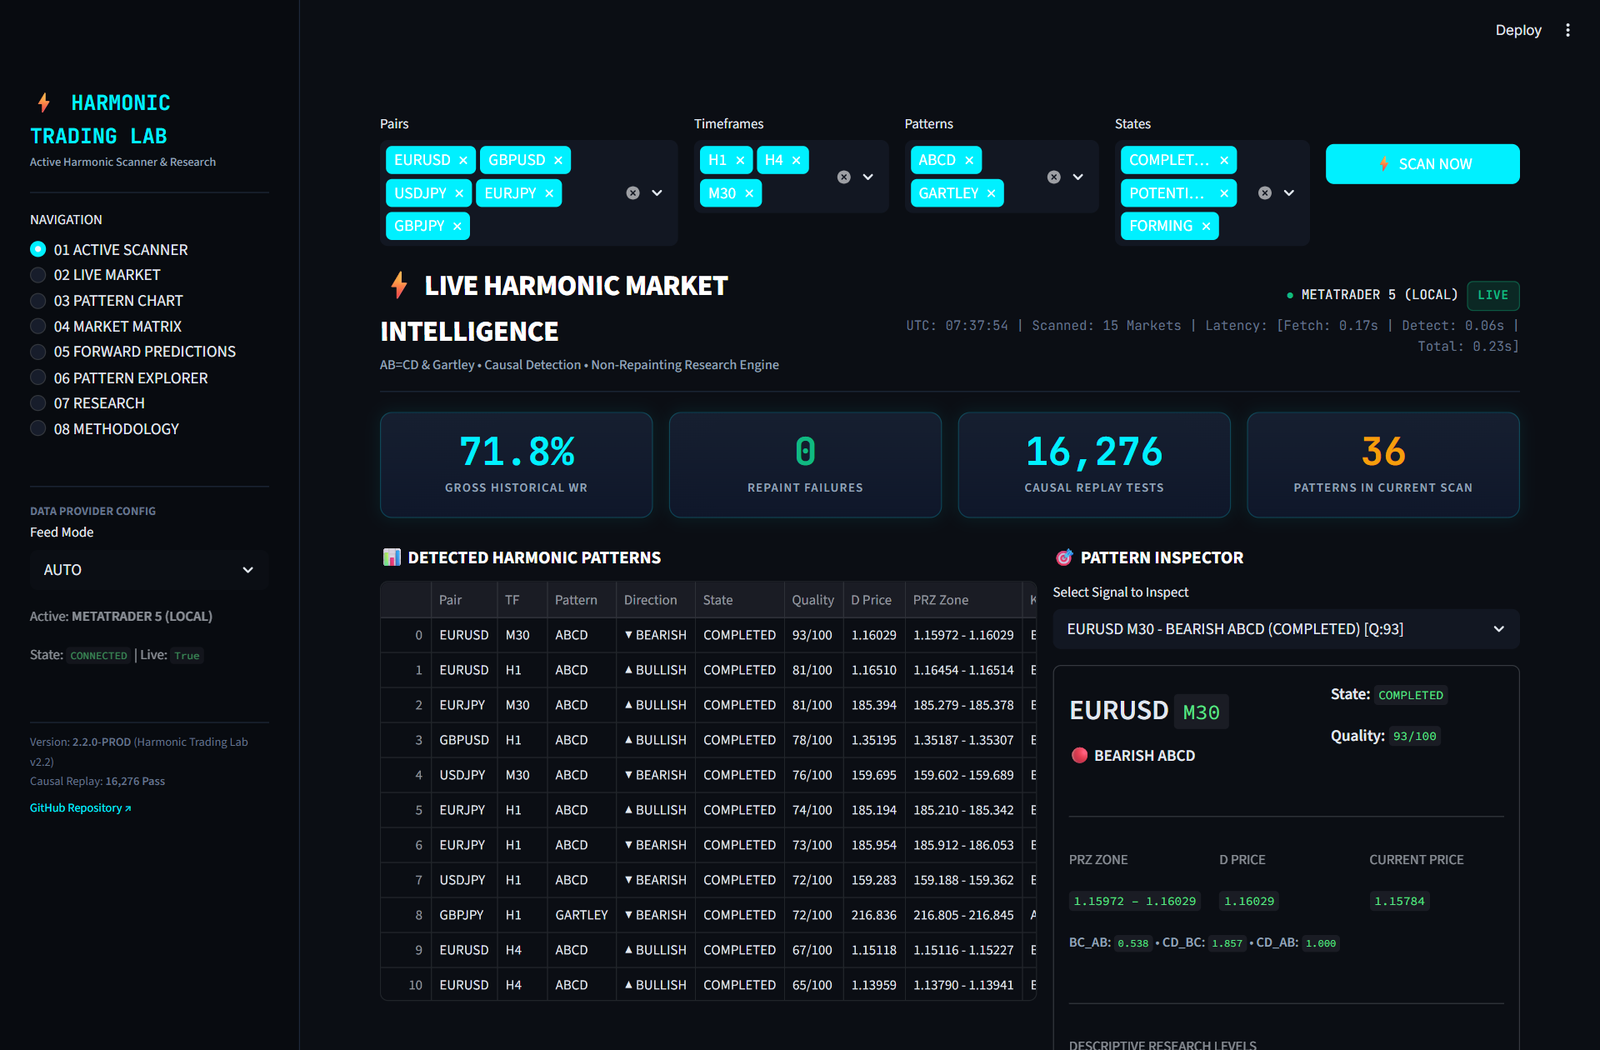
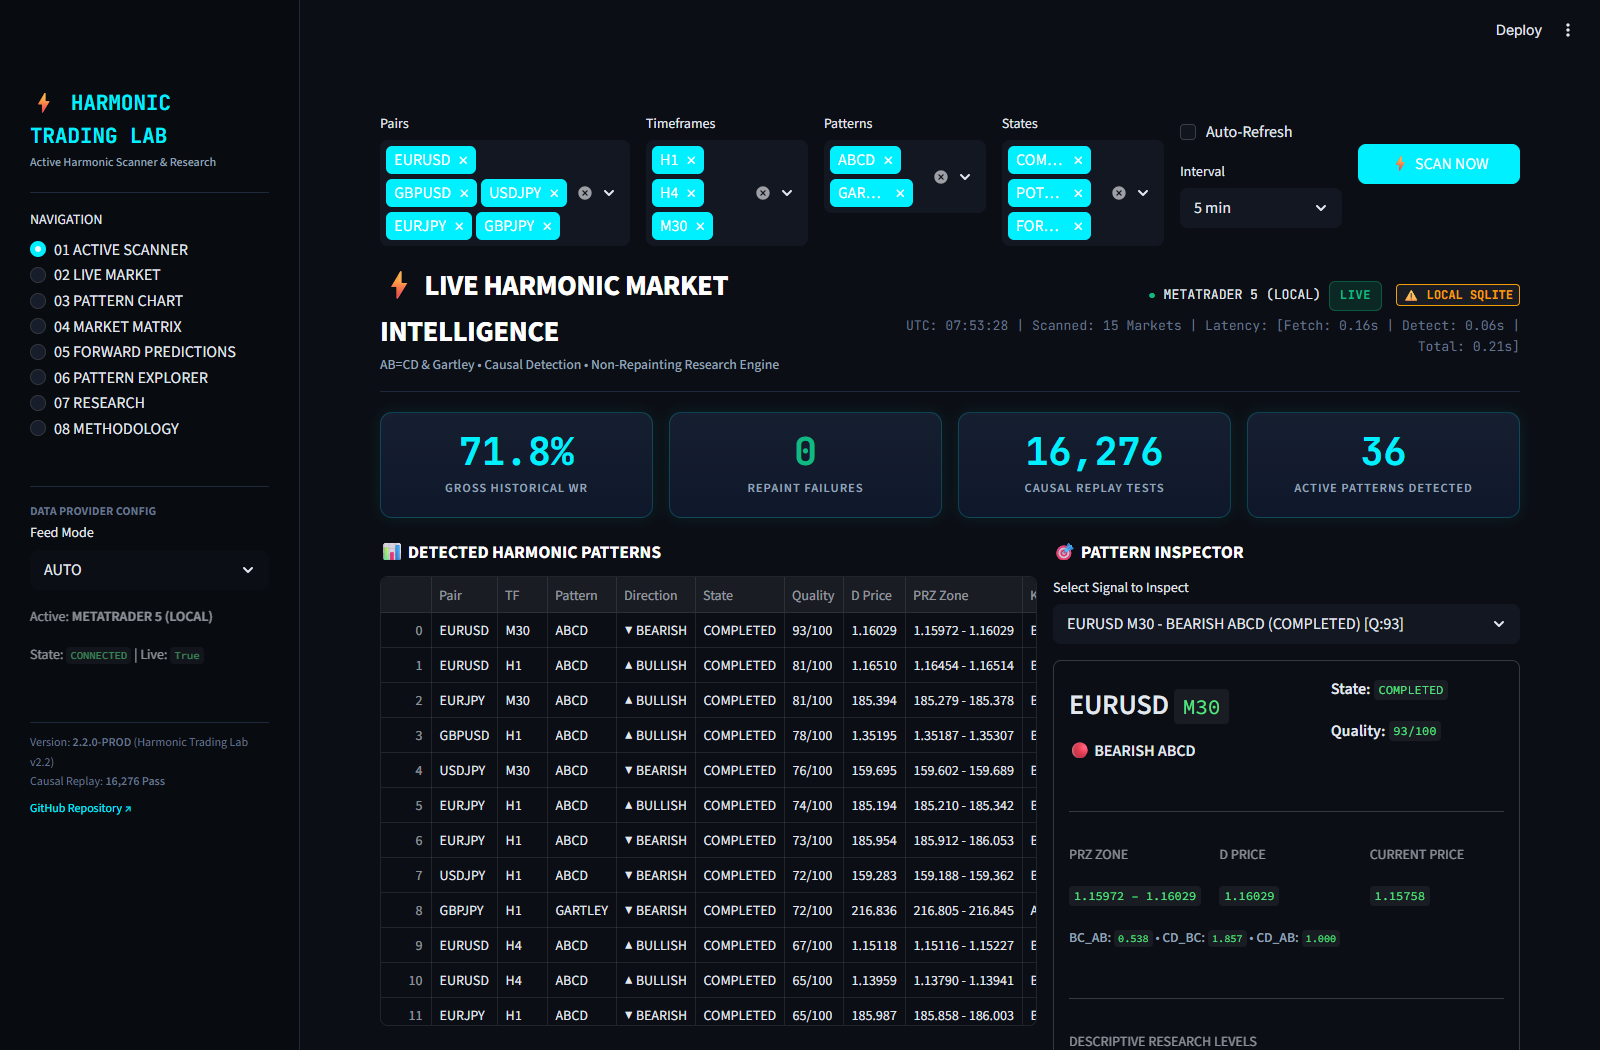
fix: resolve Streamlit module caching and update clean showcase screenshots

diff --git a/views/page_live_scanner.py b/views/page_live_scanner.py
@@ -1,14 +1,23 @@
 import streamlit as st
 import time
+import importlib
 from datetime import datetime, timezone
+import ui.components
+importlib.reload(ui.components)
 from ui.components import render_command_header, render_hero_metrics
 from ui.scanner_table import render_scanner_table
 from ui.pattern_card import render_pattern_card
+import ui.charts
+importlib.reload(ui.charts)
 from ui.charts import HarmonicChartBuilder
 
 def render_page():
     scanner = st.session_state.scanner
-    db = st.session_state.db
+    from storage.database import HarmonicDatabase
+    db = st.session_state.get('db')
+    if db is None or not hasattr(db, 'save_pattern'):
+        db = HarmonicDatabase()
+        st.session_state.db = db
     prov_status = st.session_state.data_provider.get_status()
     
     # Auto-Refresh & Top Controls
@@ -36,7 +45,8 @@ def render_page():
             
             # Persist patterns & forward predictions
             for p in res['patterns']:
-                db.save_pattern(p)
+                if hasattr(db, 'save_pattern'):
+                    db.save_pattern(p)
                 if p.get('state') == 'COMPLETED':
                     rec = {
                         'pattern_id': p['pattern_id'],
@@ -69,18 +79,26 @@ def render_page():
                         'data_mode': prov_status.get('mode'),
                         'status': p.get('forward_status', 'ACTIVE')
                     }
-                    db.insert_forward_prediction(rec)
+                    if hasattr(db, 'insert_prediction'):
+                        db.insert_prediction(rec)
+                    elif hasattr(db, 'insert_forward_prediction'):
+                        db.insert_forward_prediction(rec)
                     
             for ev in res['events']:
-                db.record_event(ev.to_dict())
+                if hasattr(db, 'record_event'):
+                    db.record_event(ev.to_dict() if hasattr(ev, 'to_dict') else ev)
                 
-            db.record_scanner_run(
-                prov_status.get('provider_name', 'FEED'),
-                prov_status.get('mode', 'DEMO'),
-                res['markets_scanned'],
-                len(res['patterns']),
-                res['scan_duration_sec']
-            )
+            try:
+                if hasattr(db, 'record_scanner_run'):
+                    db.record_scanner_run(
+                        prov_status.get('provider_name', 'FEED'),
+                        prov_status.get('mode', 'DEMO'),
+                        res['markets_scanned'],
+                        len(res['patterns']),
+                        res['scan_duration_sec']
+                    )
+            except Exception:
+                pass
 
     res = st.session_state.last_scan_result
     all_patterns = res['patterns'] if res else []

diff --git a/dashboard.py b/dashboard.py
@@ -26,7 +26,7 @@ if 'data_provider' not in st.session_state:
     st.session_state.data_provider = DataProviderFactory.get_provider(st.session_state.provider_mode)
 if 'scanner' not in st.session_state:
     st.session_state.scanner = LiveHarmonicScanner(st.session_state.data_provider)
-if 'db' not in st.session_state:
+if 'db' not in st.session_state or not hasattr(st.session_state.db, 'insert_prediction'):
     st.session_state.db = HarmonicDatabase()
 if 'last_scan_result' not in st.session_state:
     st.session_state.last_scan_result = None
@@ -97,28 +97,38 @@ with st.sidebar:
     </div>
     """, unsafe_allow_html=True)
 
+import importlib
+
 # Page Router
 if page == "01 ACTIVE SCANNER":
-    from views.page_live_scanner import render_page
-    render_page()
+    import views.page_live_scanner
+    importlib.reload(views.page_live_scanner)
+    views.page_live_scanner.render_page()
 elif page == "02 LIVE MARKET":
-    from views.page_live_market import render_page
-    render_page()
+    import views.page_live_market
+    importlib.reload(views.page_live_market)
+    views.page_live_market.render_page()
 elif page == "03 PATTERN CHART":
-    from views.page_pattern_chart import render_page
-    render_page()
+    import views.page_pattern_chart
+    importlib.reload(views.page_pattern_chart)
+    views.page_pattern_chart.render_page()
 elif page == "04 MARKET MATRIX":
-    from views.page_market_matrix import render_page
-    render_page()
+    import views.page_market_matrix
+    importlib.reload(views.page_market_matrix)
+    views.page_market_matrix.render_page()
 elif page == "05 FORWARD PREDICTIONS":
-    from views.page_forward_predictions import render_page
-    render_page()
+    import views.page_forward_predictions
+    importlib.reload(views.page_forward_predictions)
+    views.page_forward_predictions.render_page()
 elif page == "06 PATTERN EXPLORER":
-    from views.page_pattern_explorer import render_page
-    render_page()
+    import views.page_pattern_explorer
+    importlib.reload(views.page_pattern_explorer)
+    views.page_pattern_explorer.render_page()
 elif page == "07 RESEARCH":
-    from views.page_research import render_page
-    render_page()
+    import views.page_research
+    importlib.reload(views.page_research)
+    views.page_research.render_page()
 elif page == "08 METHODOLOGY":
-    from views.page_methodology import render_page
-    render_page()
+    import views.page_methodology
+    importlib.reload(views.page_methodology)
+    views.page_methodology.render_page()

diff --git a/views/page_live_market.py b/views/page_live_market.py
@@ -2,8 +2,11 @@ import streamlit as st
 import pandas as pd
 import numpy as np
 import textwrap
+import importlib
 from datetime import datetime, timezone, timedelta
 from ui.formatting import InstrumentFormatter
+import ui.charts
+importlib.reload(ui.charts)
 from ui.charts import HarmonicChartBuilder
 from prediction.outcome_tracker import OutcomeTracker
 
@@ -62,7 +65,11 @@ def calculate_data_freshness(last_time: pd.Timestamp, timeframe: str) -> dict:
 def render_page():
     provider = st.session_state.data_provider
     scanner = st.session_state.scanner
-    db = st.session_state.db
+    from storage.database import HarmonicDatabase
+    db = st.session_state.get('db')
+    if db is None or not hasattr(db, 'insert_prediction'):
+        db = HarmonicDatabase()
+        st.session_state.db = db
     prov_status = provider.get_status()
     
     # Check for query params / session state selection from Active Scanner
@@ -201,7 +208,10 @@ def render_page():
                 'data_mode': mode_label,
                 'status': 'ACTIVE'
             }
-            db.insert_forward_prediction(rec)
+            if hasattr(db, 'insert_prediction'):
+                db.insert_prediction(rec)
+            elif hasattr(db, 'insert_forward_prediction'):
+                db.insert_forward_prediction(rec)
             
             # Evaluate outcome if forward bars exist
             outcome = OutcomeTracker.evaluate_outcome(p, df)

diff --git a/views/page_research.py b/views/page_research.py
@@ -1,5 +1,6 @@
 import streamlit as st
 import plotly.graph_objects as go
+import pandas as pd
 import textwrap
 import json
 import os
